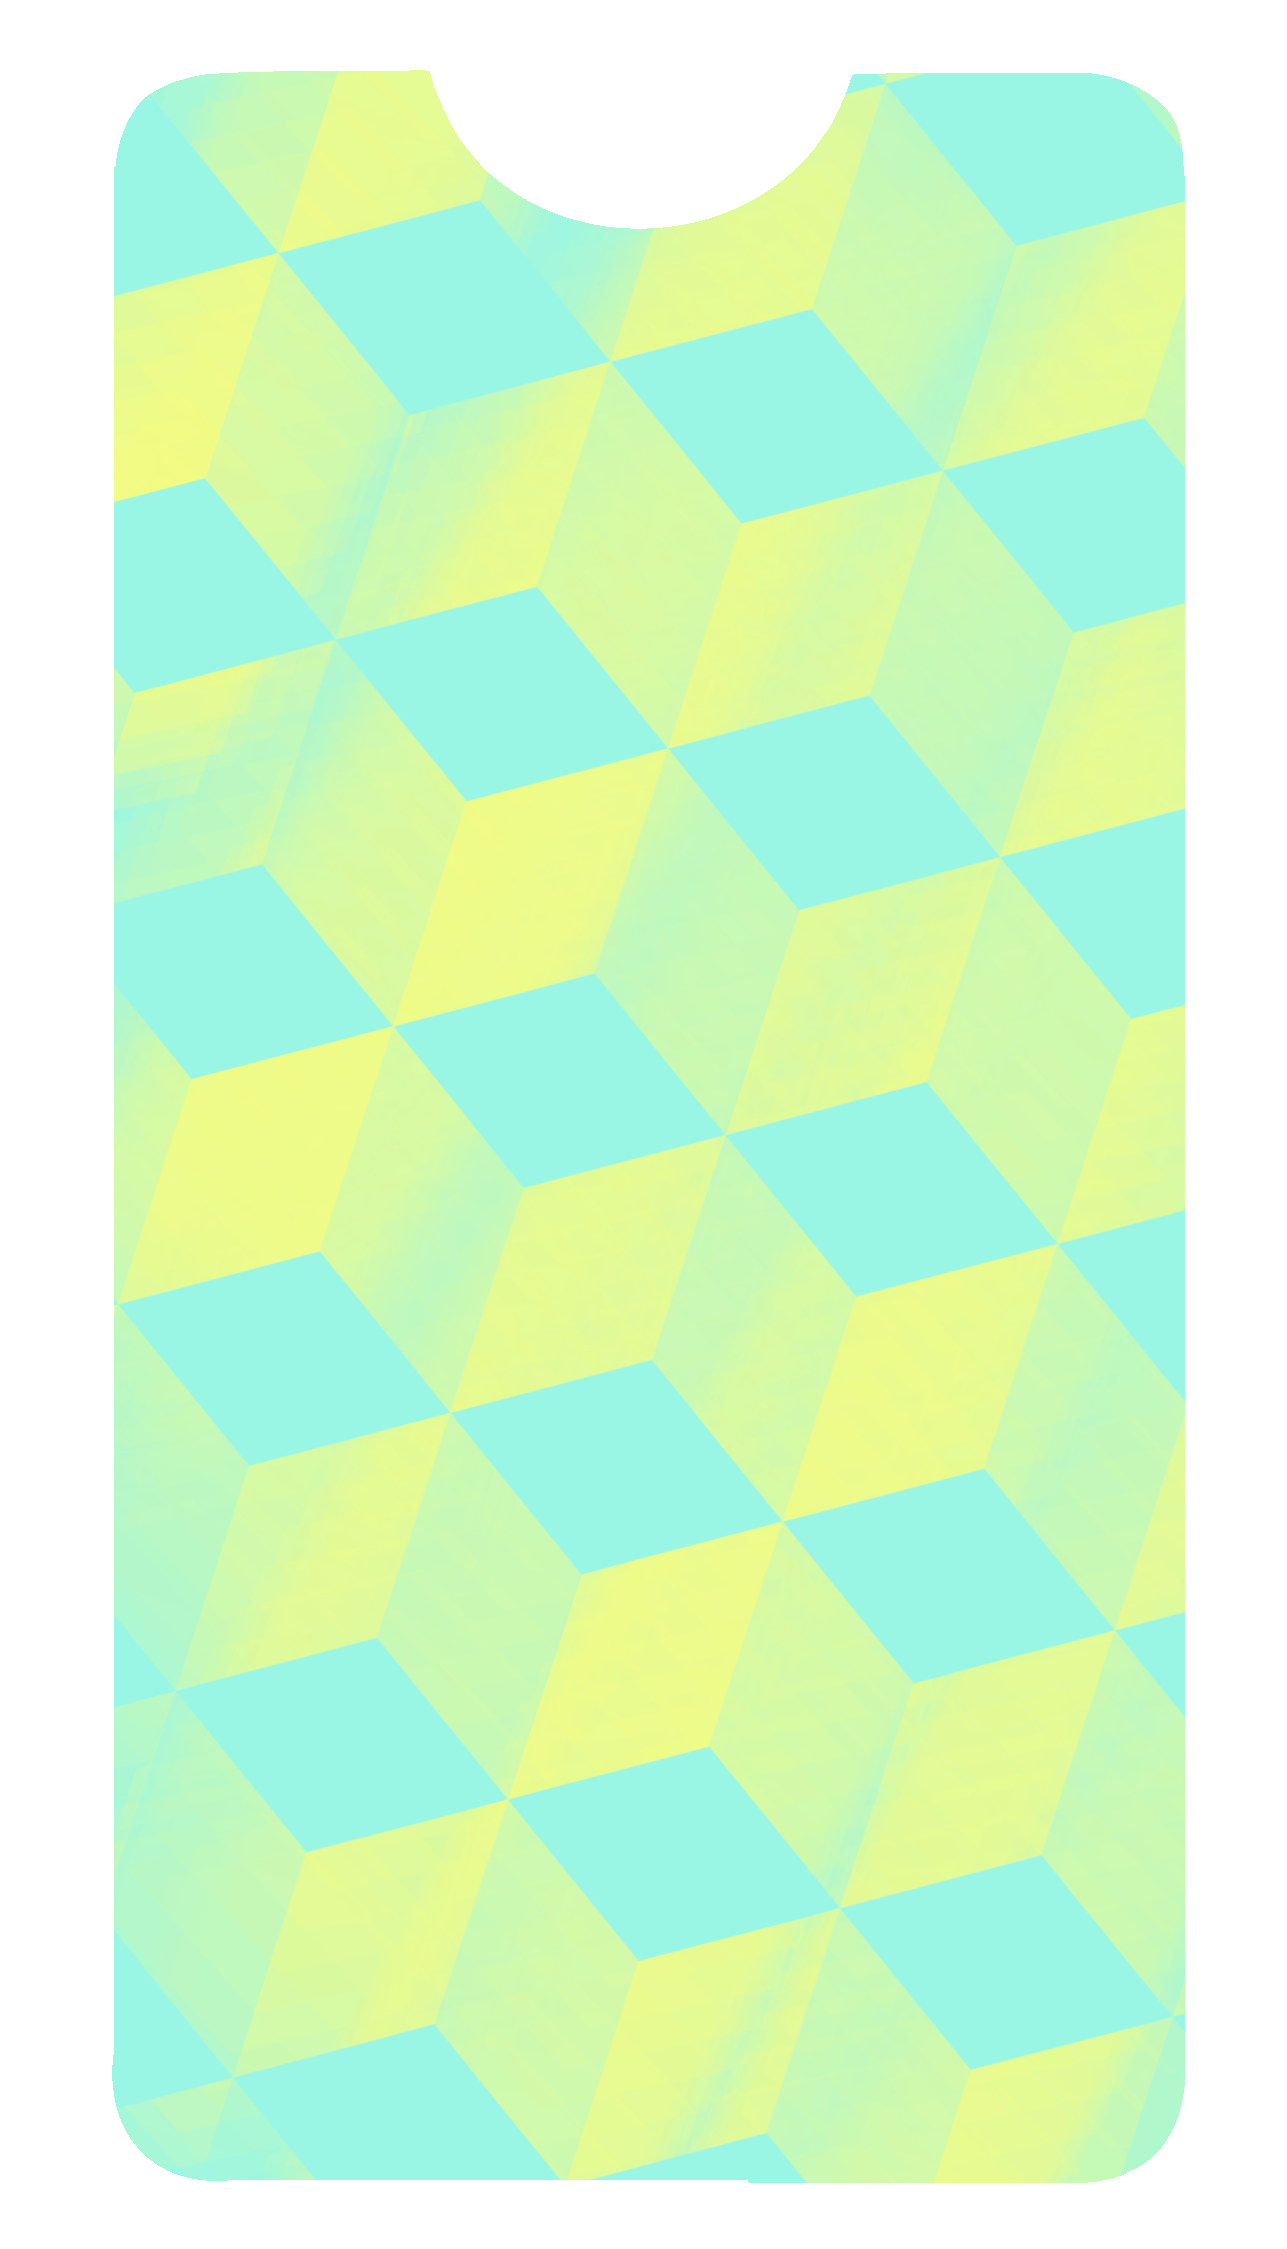
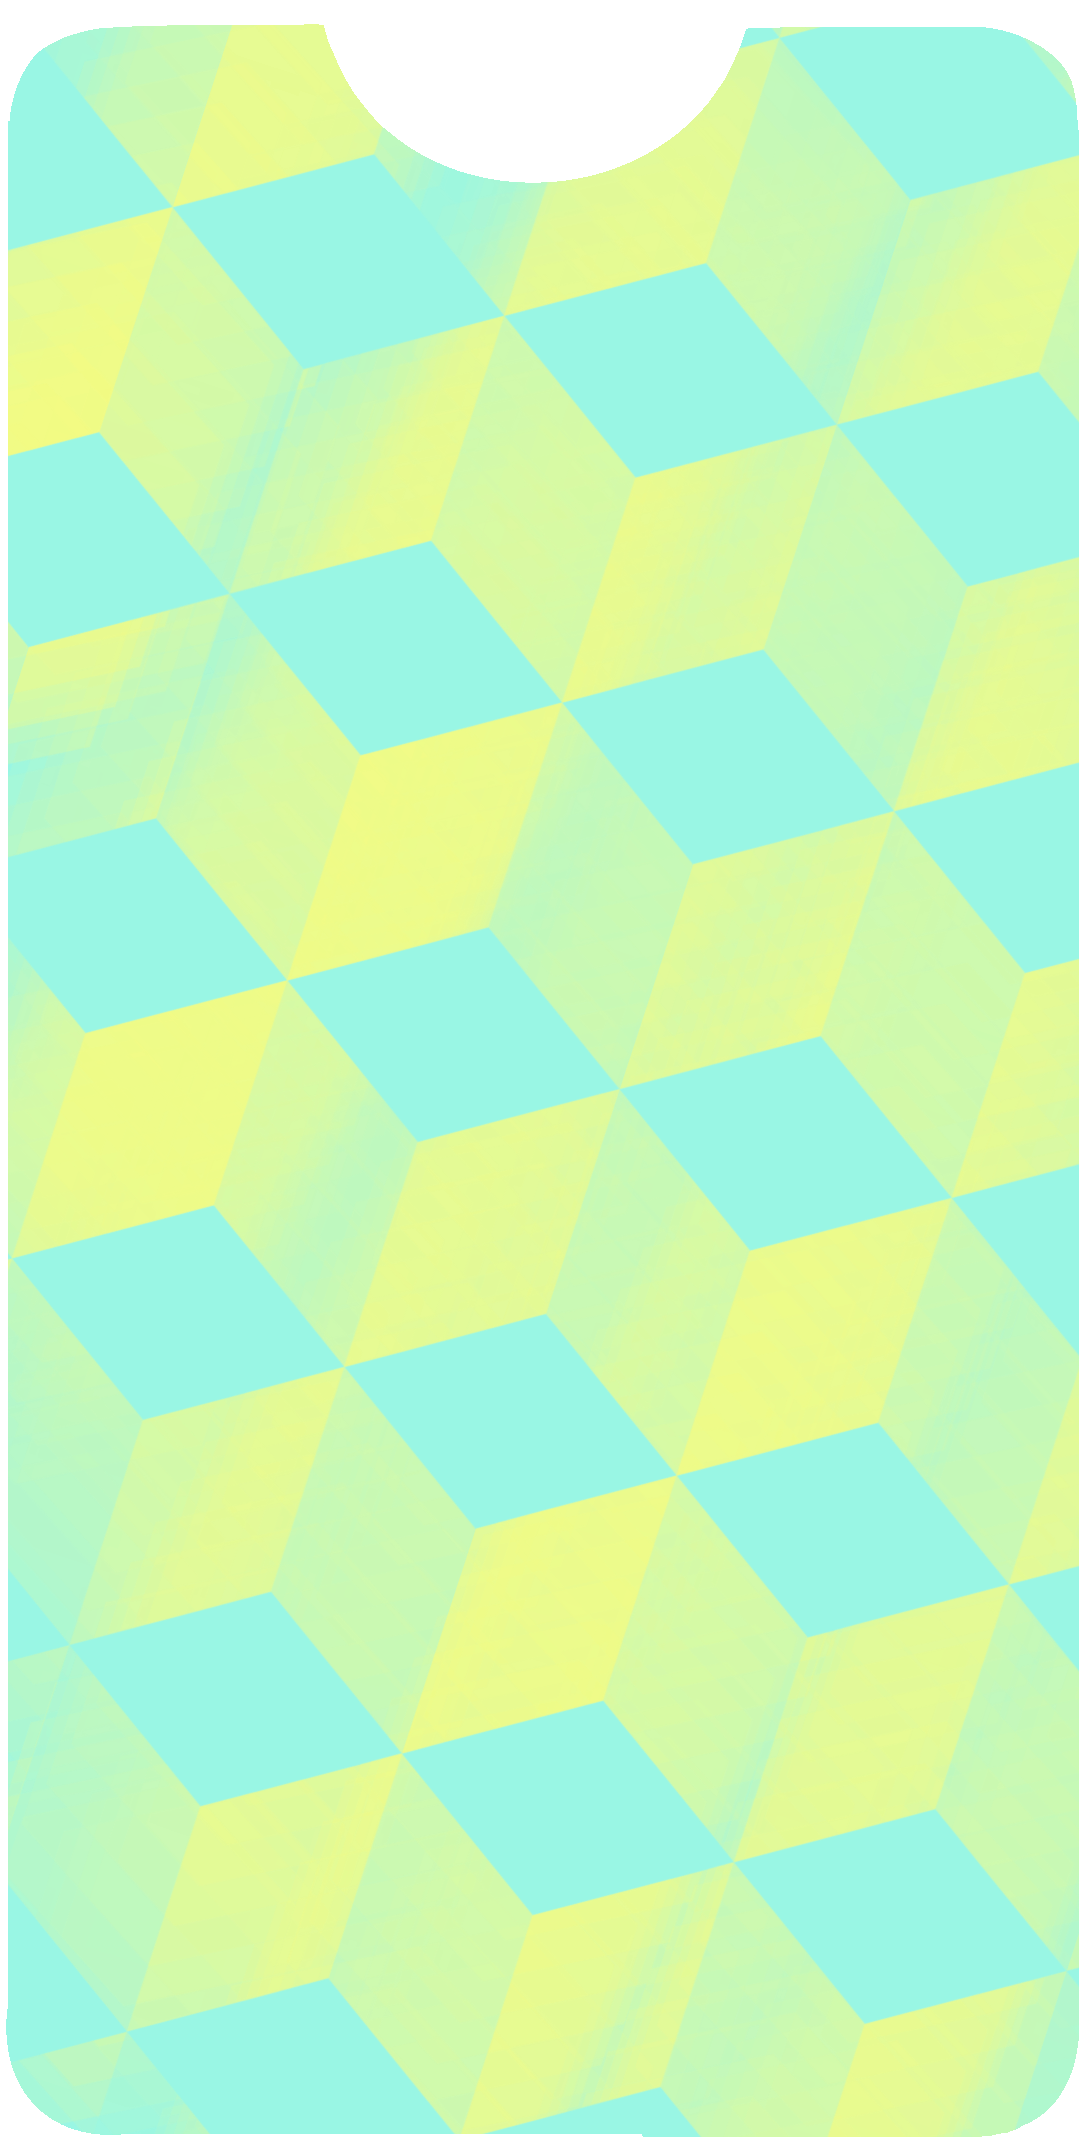
modified

diff --git a/style.css b/style.css
@@ -4,6 +4,13 @@
     }
     .grid-container{
         top: 0px;
+        width: 100%;
+        height: 100%;
+        background-image: url('img/largerBkgd.png');
+        background-size: cover;
+    }
+    .pkmn-type{
+        height: 30px;
     }
 }
 
@@ -31,7 +38,9 @@ body{
     max-width: 480px;
     background-image: url('img/background.png');
     background-position: center;
-    background-size: cover;
+    background-size: contain;
+    background-repeat: no-repeat;
+
 }
 
 .grid-container{
